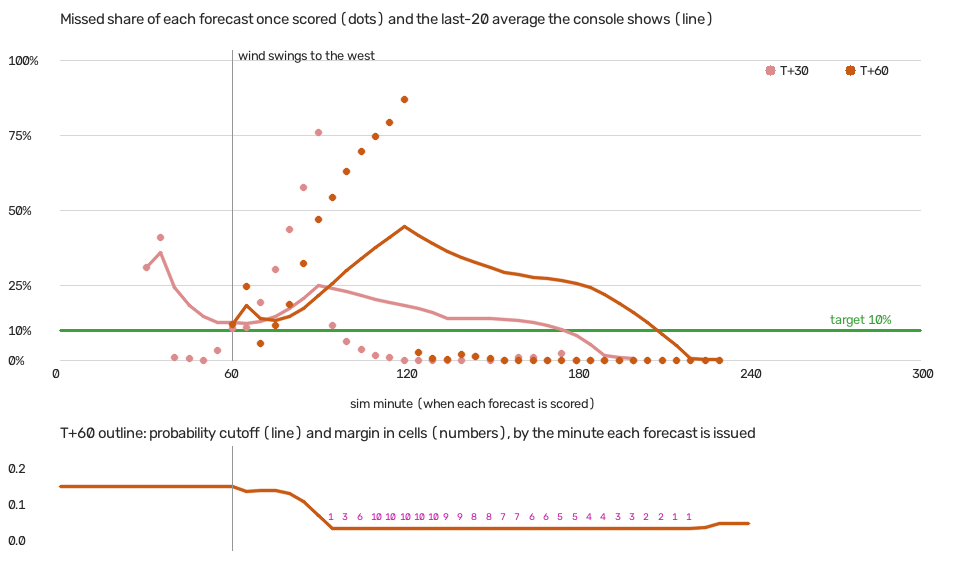
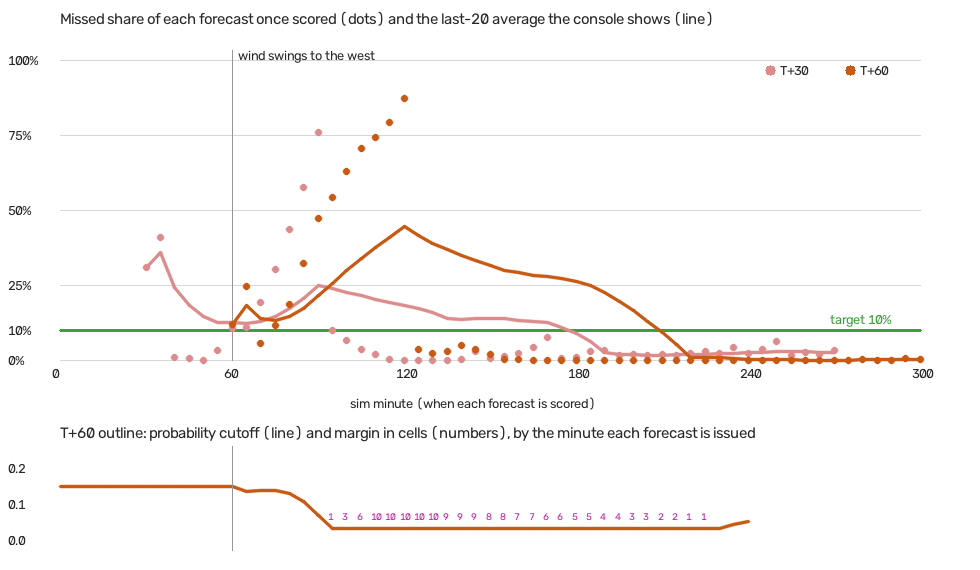
ai: regenerate the envelope pictures on the 512x480 map with the valley fuel fix

diff --git a/AI_README.md b/AI_README.md
@@ -153,17 +153,17 @@ The raw forecast assumes the wind and the crews stay as they are. Players change
 - **What kind of guarantee this is** (see "The guarantee, precisely" below): a finite-sample bound on the *average* miss over the forecasts scored so far, holding for any sequence of winds and player actions. It is not a promise about any single outline.
 - **On screen:** the map's layers menu shows "Forecast outline: X% at 30 min, Y% at 60 min of new fire fell outside it lately (target 10%)", over the last 20 forecasts. It is highlighted when a recent miss rate is more than 5 points over target.
 - **Reading the numbers:** a recent miss rate well above 10% usually means the wind just changed. Expect the outline to widen over the next few forecasts.
-- **What it looks like** (`cd engine && uv run python -m eval.envelope_figure`: one Paradise fire, the wind swinging from north-east to west at minute 60, the engine's own forecaster and calibrator). On the map, the orange **fill** is where at least half the simulations have fire by T+60. That's the raw forecast, not calibrated. The dark orange **line** around it is the calibrated outline.
+- **What it looks like** (`cd engine && uv run python -m eval.envelope_figure`: one Paradise fire on the 512 x 480 map, the wind swinging from north-east to west at minute 60, the engine's own forecaster and calibrator). On the map, the orange **fill** is where at least half the simulations have fire by T+60. That's the raw forecast, not calibrated. The dark orange **line** around it is the calibrated outline.
 
   ![The T+60 outline at three moments of a wind shift](docs/images/calibration/envelope_maps.png)
 
   - **Minute 40, before the shift:** the forecast assumes the old wind, and 63% of the next hour's fire lands outside the outline (magenta).
-  - **Minute 85, just after it:** new forecasts already use the new wind and miss 1%. But the forecasts issued before the shift are only scored an hour later, so their misses are still arriving and the outline is just starting to loosen.
+  - **Minute 85, just after it:** new forecasts already use the new wind and miss 4%. But the forecasts issued before the shift are only scored an hour later, so their misses are still arriving and the outline is just starting to loosen.
   - **Minute 125:** those misses have pushed the knob to its widest (cutoff 1/32 plus 10 cells), so the line sits far outside the fill. It's over-wide now that the forecast has caught up, and it tightens again over the next ~90 minutes.
 
   ![Miss rate against the 10% target, and the outline's knob](docs/images/calibration/envelope_miss.png)
 
-  The miss rate (dots per scored forecast, line for the last-20 average the console shows) spikes about an hour after the shift, and only then does the knob drop to 1/32 and add margin cells. Over this one fire it averages 10.0% at T+30 and 16.7% at T+60. That's the price of a guarantee on the running average with an hour's delay in learning: the outline lags a shift on the way out and stays wide for a while on the way back. Read a wide line next to a tight fill as "the forecast was recently wrong, so give it room", not as a bigger fire.
+  The miss rate (dots per scored forecast, line for the last-20 average the console shows) spikes about an hour after the shift, and only then does the knob drop to 1/32 and add margin cells. Over this one fire it averages 8.4% at T+30 and 12.2% at T+60. That's the price of a guarantee on the running average with an hour's delay in learning: the outline lags a shift on the way out and stays wide for a while on the way back. Read a wide line next to a tight fill as "the forecast was recently wrong, so give it room", not as a bigger fire.
 - **Measured** at `C2` 0.3 (`eval.run`, 4 episodes per wind schedule, 83–96 scored forecasts each; missed share over the whole run):
 
   | Wind | T+30 | T+60 |
